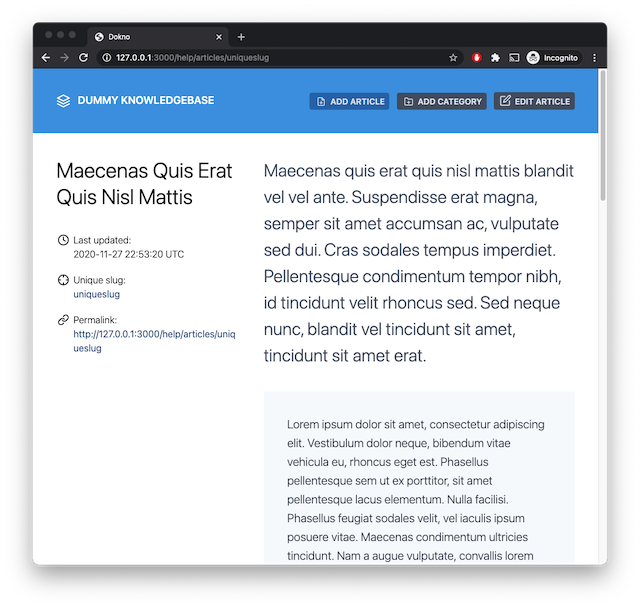
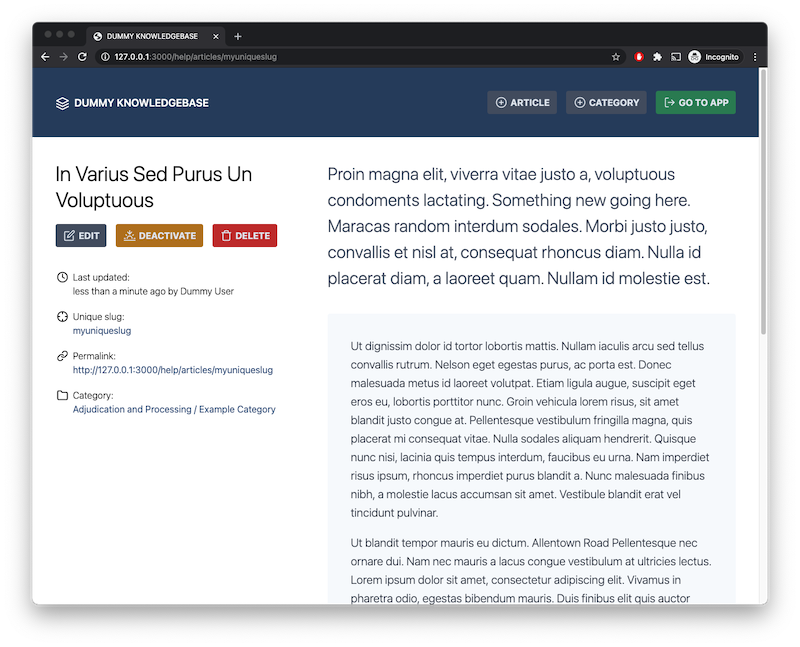
Update screenshots

Changed region(s): [[0.0312, 0.0312, 0.9688, 0.9375]]

diff --git a/README.md b/README.md
@@ -24,7 +24,6 @@ as well as a view helper for providing inline, in-context access to articles to 
 ![Editing An Article](./README/article_edit.png)
 
 ### In-Context Flyout Article
-![Host App Page](./README/host_app_page.png)
 ![Host App Page](./README/host_app_flyout.png)
 
 ## Dependencies
